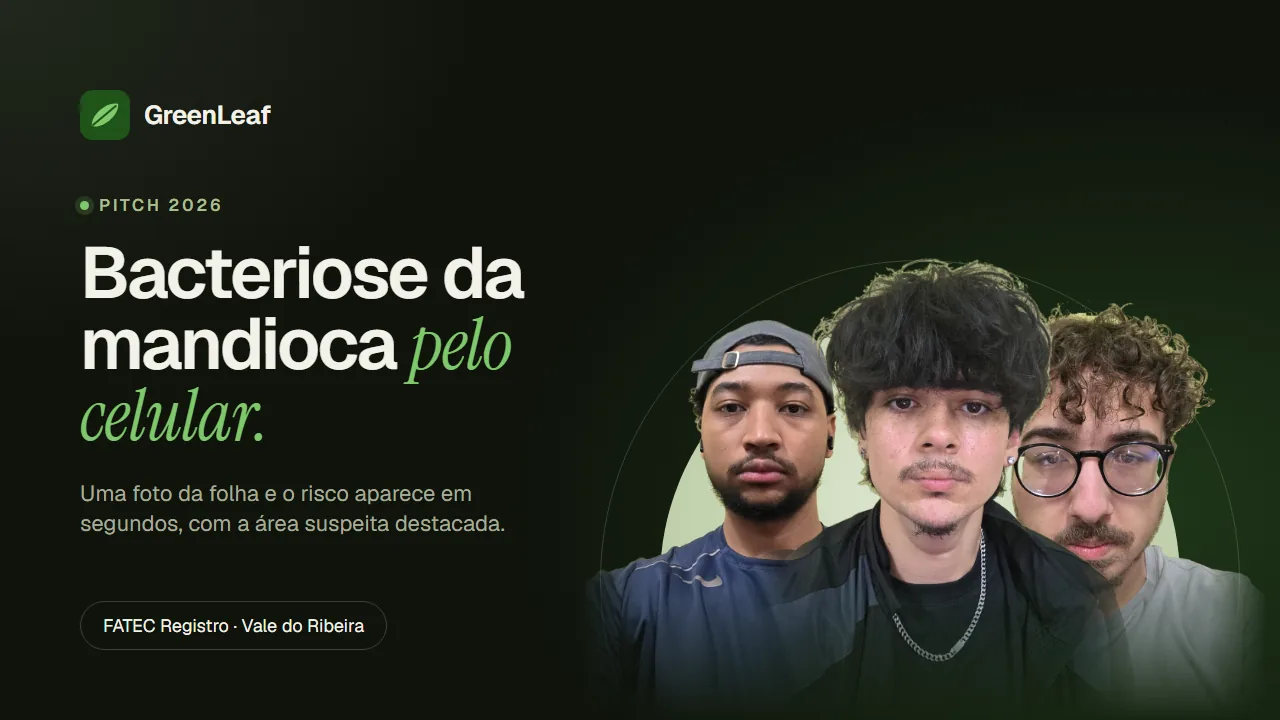
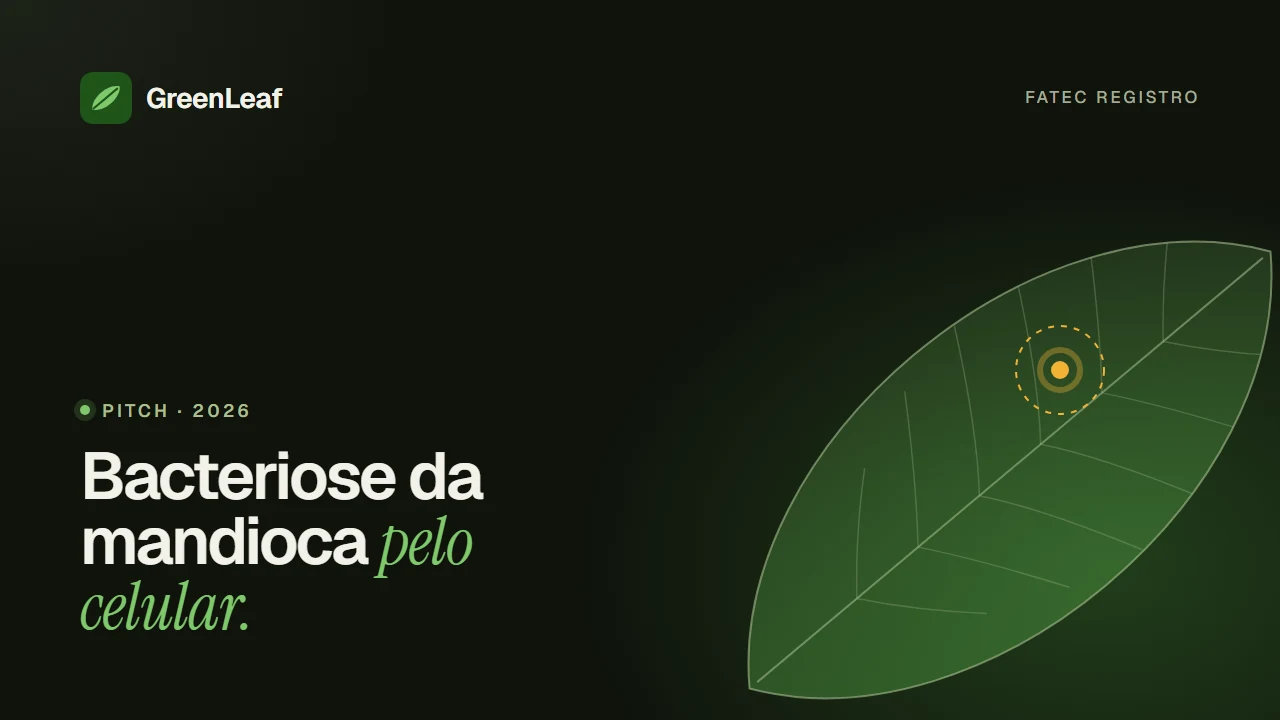
feat: redesenha a seção de equipe e simplifica a thumbnail do pitch
Retratos verticais recortados sobre painel escuro no tom das seções
imersivas, layout editorial sem a inclinação 3D. Thumbnail do pitch sem
fotos, só marca, título e a folha, com o centro livre para o play.

diff --git a/src/styles/sections.css b/src/styles/sections.css
@@ -251,30 +251,53 @@
 .pitch__poster:hover img { transform: scale(1.04); filter: brightness(1); }
 .pitch__play { position: absolute; z-index: 1; left: 50%; top: 50%; translate: -50% -50%; width: 84px; height: 84px; border-radius: 50%; display: grid; place-items: center; background: var(--cream); color: var(--ink); box-shadow: 0 0 0 12px rgba(242, 241, 233, 0.15); transition: transform var(--dur) var(--ease); }
 .pitch__poster:hover .pitch__play { transform: scale(1.08); }
+@media (max-width: 600px) { .pitch__play { width: 60px; height: 60px; box-shadow: 0 0 0 8px rgba(242, 241, 233, 0.15); } }
 @media (max-width: 900px) { .pitch__grid { grid-template-columns: 1fr; } }
 
 /* ================= EQUIPE ================= */
-.team__grid { display: grid; grid-template-columns: repeat(3, minmax(0, 1fr)); gap: 18px; }
-.member { perspective: 1200px; }
-.member__card {
-  height: 100%;
-  padding: 14px; border-radius: var(--radius-xl); background: var(--paper); border: 1px solid var(--line-light);
-  transform: rotateY(calc(var(--mx) * 8deg)) rotateX(calc(var(--my) * -8deg));
-  transition: transform 0.35s var(--ease-out), box-shadow 0.35s var(--ease-out);
+.team__grid { display: grid; grid-template-columns: repeat(3, minmax(0, 1fr)); gap: clamp(20px, 2.4vw, 36px); }
+.member { display: grid; align-content: start; gap: 24px; }
+.member__photo {
+  position: relative; aspect-ratio: 4 / 5; overflow: hidden; isolation: isolate;
+  border-radius: var(--radius-xl);
+  background:
+    radial-gradient(70% 55% at 50% 62%, rgba(87, 184, 70, 0.34), transparent 70%),
+    linear-gradient(180deg, var(--ink-800) 0%, var(--ink-900) 100%);
+  box-shadow: 0 30px 60px -40px rgba(18, 21, 12, 0.55);
 }
-.member__card:hover { box-shadow: 0 30px 60px -30px rgba(18, 21, 12, 0.4); }
-.member__photo { aspect-ratio: 1; border-radius: 26px; overflow: hidden; background: radial-gradient(circle at 50% 30%, #dfe8d2, #c5d4b1); display: grid; place-items: center; }
-.member__photo img { width: 82%; height: 82%; object-fit: cover; border-radius: 50%; box-shadow: 0 18px 40px rgba(18, 21, 12, 0.25); transition: transform 0.6s var(--ease-out); }
-.member:hover .member__photo img { transform: scale(1.04); }
-.member__body { padding: 20px 12px 10px; display: grid; gap: 8px; }
-.member__role { font-size: 0.72rem; letter-spacing: 0.14em; text-transform: uppercase; color: var(--leaf-800); font-weight: 600; }
-.member h3 { font-size: 1.3rem; letter-spacing: -0.02em; font-weight: 650; }
-.member__body > p:not(.member__role) { color: var(--ink-muted); font-size: 0.95rem; }
-.member__link { display: inline-flex; align-items: center; gap: 6px; justify-self: start; min-height: 40px; margin-top: 4px; padding: 0 14px; border-radius: 999px; border: 1px solid var(--line-light); font-weight: 600; font-size: 0.88rem; transition: background var(--dur), color var(--dur); }
-.member__link:hover { background: var(--ink); color: var(--cream); }
-.team__institution { margin-top: 32px; text-align: center; }
+.member__photo::before {
+  content: ''; position: absolute; inset: 0; z-index: -1;
+  background-image: linear-gradient(var(--line-dark) 1px, transparent 1px), linear-gradient(90deg, var(--line-dark) 1px, transparent 1px);
+  background-size: 44px 44px; background-position: center;
+  -webkit-mask-image: radial-gradient(80% 70% at 50% 45%, #000, transparent 75%); mask-image: radial-gradient(80% 70% at 50% 45%, #000, transparent 75%);
+}
+.member__photo::after {
+  content: ''; position: absolute; inset: 0; pointer-events: none; border-radius: inherit;
+  box-shadow: inset 0 0 0 1px var(--line-dark);
+  background: linear-gradient(180deg, transparent 70%, rgba(10, 13, 8, 0.35));
+}
+.member__photo img {
+  position: absolute; inset: auto 0 0; width: 100%; height: auto;
+  transform-origin: 50% 100%; transition: transform 0.9s var(--ease-out);
+}
+.member:hover .member__photo img { transform: scale(1.035); }
+.member__index {
+  position: absolute; z-index: 1; top: 18px; left: 22px;
+  font-family: var(--font-serif); font-style: italic; font-size: 2.1rem; line-height: 1;
+  color: var(--sage);
+}
+.member__body { display: grid; gap: 10px; padding: 0 4px; }
+.member__role { display: inline-flex; align-items: center; gap: 10px; font-size: 0.74rem; letter-spacing: 0.14em; text-transform: uppercase; color: var(--leaf-800); font-weight: 600; }
+.member__role::before { content: ''; width: 18px; height: 1px; background: currentColor; }
+.member h3 { font-size: clamp(1.3rem, 1.1rem + 0.6vw, 1.6rem); line-height: 1.15; letter-spacing: -0.025em; font-weight: 650; text-wrap: balance; }
+.member__bio { color: var(--ink-muted); font-size: 0.97rem; max-width: 38ch; }
+.member__link { display: inline-flex; align-items: center; gap: 6px; justify-self: start; min-height: 40px; margin-top: 4px; padding: 0 14px; border-radius: 999px; border: 1px solid var(--line-light); font-weight: 600; font-size: 0.88rem; transition: background var(--dur), color var(--dur), border-color var(--dur); }
+.member__link:hover { background: var(--ink); color: var(--cream); border-color: var(--ink); }
+.team__institution { margin-top: clamp(40px, 5vw, 64px); text-align: center; }
 .team__institution a { display: inline-flex; min-height: 44px; align-items: center; color: var(--ink-muted); border-bottom: 1px solid var(--line-light); }
-@media (max-width: 900px) { .team__grid { grid-template-columns: 1fr; max-width: 460px; margin-inline: auto; } }
+@media (max-width: 900px) {
+  .team__grid { grid-template-columns: 1fr; max-width: 440px; margin-inline: auto; gap: 48px; }
+}
 
 /* ================= FAQ ================= */
 .faq__grid { display: grid; grid-template-columns: minmax(0, 0.8fr) minmax(0, 1.2fr); gap: clamp(32px, 6vw, 110px); align-items: start; }

diff --git a/src/sections/Team.tsx b/src/sections/Team.tsx
@@ -1,20 +1,7 @@
-import type { CSSProperties, PointerEvent } from 'react';
 import { site } from '../config/site';
 import { useLanguage } from '../content/Language';
 import { Eyebrow, Heading } from '../components/Primitives';
 import { ArrowUpRight, Github } from '../components/Icons';
-
-/** Cartões com inclinação 3D sutil acompanhando o ponteiro. */
-function tiltMove(event: PointerEvent<HTMLElement>) {
-  if (event.pointerType !== 'mouse') return;
-  const el = event.currentTarget, rect = el.getBoundingClientRect();
-  el.style.setProperty('--mx', String((event.clientX - rect.left) / rect.width - 0.5));
-  el.style.setProperty('--my', String((event.clientY - rect.top) / rect.height - 0.5));
-}
-function tiltLeave(event: PointerEvent<HTMLElement>) {
-  event.currentTarget.style.setProperty('--mx', '0');
-  event.currentTarget.style.setProperty('--my', '0');
-}
 
 export function Team() {
   const { content: { team, ui } } = useLanguage();
@@ -31,18 +18,19 @@ export function Team() {
         <ul className="team__grid">
           {team.members.map((m, i) => (
             <li key={m.name} className="member" data-reveal style={{ transitionDelay: `${i * 90}ms` }}>
-              <div className="member__card" style={{ '--mx': 0, '--my': 0 } as CSSProperties} onPointerMove={tiltMove} onPointerLeave={tiltLeave}>
-                <div className="member__photo"><img src={m.photo} alt="" loading="lazy" width={240} height={240} /></div>
-                <div className="member__body">
-                  <p className="member__role">{m.role}</p>
-                  <h3>{m.name}</h3>
-                  <p>{m.bio}</p>
-                  {m.github && (
-                    <a className="member__link" href={m.github} target="_blank" rel="noopener">
-                      <Github width={16} height={16} /> GitHub <ArrowUpRight width={14} height={14} /><span className="sr-only"> {ui.newTab}</span>
-                    </a>
-                  )}
-                </div>
+              <div className="member__photo">
+                <span className="member__index" aria-hidden="true">{String(i + 1).padStart(2, '0')}</span>
+                <img src={m.photo} alt="" loading="lazy" width={640} height={800} />
+              </div>
+              <div className="member__body">
+                <p className="member__role">{m.role}</p>
+                <h3>{m.name}</h3>
+                <p className="member__bio">{m.bio}</p>
+                {m.github && (
+                  <a className="member__link" href={m.github} target="_blank" rel="noopener">
+                    <Github width={16} height={16} /> GitHub <ArrowUpRight width={14} height={14} /><span className="sr-only"> {ui.newTab}</span>
+                  </a>
+                )}
               </div>
             </li>
           ))}

diff --git a/src/content/pt.ts b/src/content/pt.ts
@@ -293,9 +293,9 @@ export const pt: Content = {
     title: { before: 'Quem está ', em: 'por trás.' },
     lead: 'Estudantes de Desenvolvimento de Software Multiplataforma da FATEC Registro, no Vale do Ribeira.',
     members: [
-      { name: 'Filipe de Oliveira Lima', role: 'Desenvolvedor front-end', bio: 'Desenvolvimento front-end, com interfaces modernas, intuitivas e funcionais para quem usa o app.', photo: '/team/filipe.webp' },
-      { name: 'Yago Uran Kurashiki Rios', role: 'Desenvolvedor full-stack', bio: 'Desenvolvimento full-stack. Atua na área de TI e aprofunda Java Spring Boot e React.', photo: '/team/yago.webp', github: 'https://github.com/Yajoojj' },
-      { name: 'Carlos Eduardo Campos Takeshita', role: 'Desenvolvedor back-end', bio: 'Desenvolvimento de software com foco no back-end e na stack MERN (MongoDB, Express, React e Node.js).', photo: '/team/carlos.webp' },
+      { name: 'Filipe de Oliveira Lima', role: 'Desenvolvedor front-end', bio: 'Desenvolvimento front-end, com interfaces modernas, intuitivas e funcionais para quem usa o app.', photo: '/team/filipe-retrato.webp' },
+      { name: 'Yago Uran Kurashiki Rios', role: 'Desenvolvedor full-stack', bio: 'Desenvolvimento full-stack. Atua na área de TI e aprofunda Java Spring Boot e React.', photo: '/team/yago-retrato.webp', github: 'https://github.com/Yajoojj' },
+      { name: 'Carlos Eduardo Campos Takeshita', role: 'Desenvolvedor back-end', bio: 'Desenvolvimento de software com foco no back-end e na stack MERN (MongoDB, Express, React e Node.js).', photo: '/team/carlos-retrato.webp' },
     ],
     institution: 'FATEC Registro · Centro Paula Souza',
   },

diff --git a/src/content/en.ts b/src/content/en.ts
@@ -285,9 +285,9 @@ export const en: Content = {
     title: { before: 'The people ', em: 'behind it.' },
     lead: 'Multiplatform Software Development students at FATEC Registro, in the Ribeira Valley.',
     members: [
-      { name: 'Filipe de Oliveira Lima', role: 'Front-end developer', bio: 'Front-end development, building modern, intuitive and functional interfaces for the people who use the app.', photo: '/team/filipe.webp' },
-      { name: 'Yago Uran Kurashiki Rios', role: 'Full-stack developer', bio: 'Full-stack development. Works in IT and is deepening Java Spring Boot and React.', photo: '/team/yago.webp', github: 'https://github.com/Yajoojj' },
-      { name: 'Carlos Eduardo Campos Takeshita', role: 'Back-end developer', bio: 'Software development focused on the back end and the MERN stack (MongoDB, Express, React and Node.js).', photo: '/team/carlos.webp' },
+      { name: 'Filipe de Oliveira Lima', role: 'Front-end developer', bio: 'Front-end development, building modern, intuitive and functional interfaces for the people who use the app.', photo: '/team/filipe-retrato.webp' },
+      { name: 'Yago Uran Kurashiki Rios', role: 'Full-stack developer', bio: 'Full-stack development. Works in IT and is deepening Java Spring Boot and React.', photo: '/team/yago-retrato.webp', github: 'https://github.com/Yajoojj' },
+      { name: 'Carlos Eduardo Campos Takeshita', role: 'Back-end developer', bio: 'Software development focused on the back end and the MERN stack (MongoDB, Express, React and Node.js).', photo: '/team/carlos-retrato.webp' },
     ],
     institution: 'FATEC Registro · Centro Paula Souza',
   },
